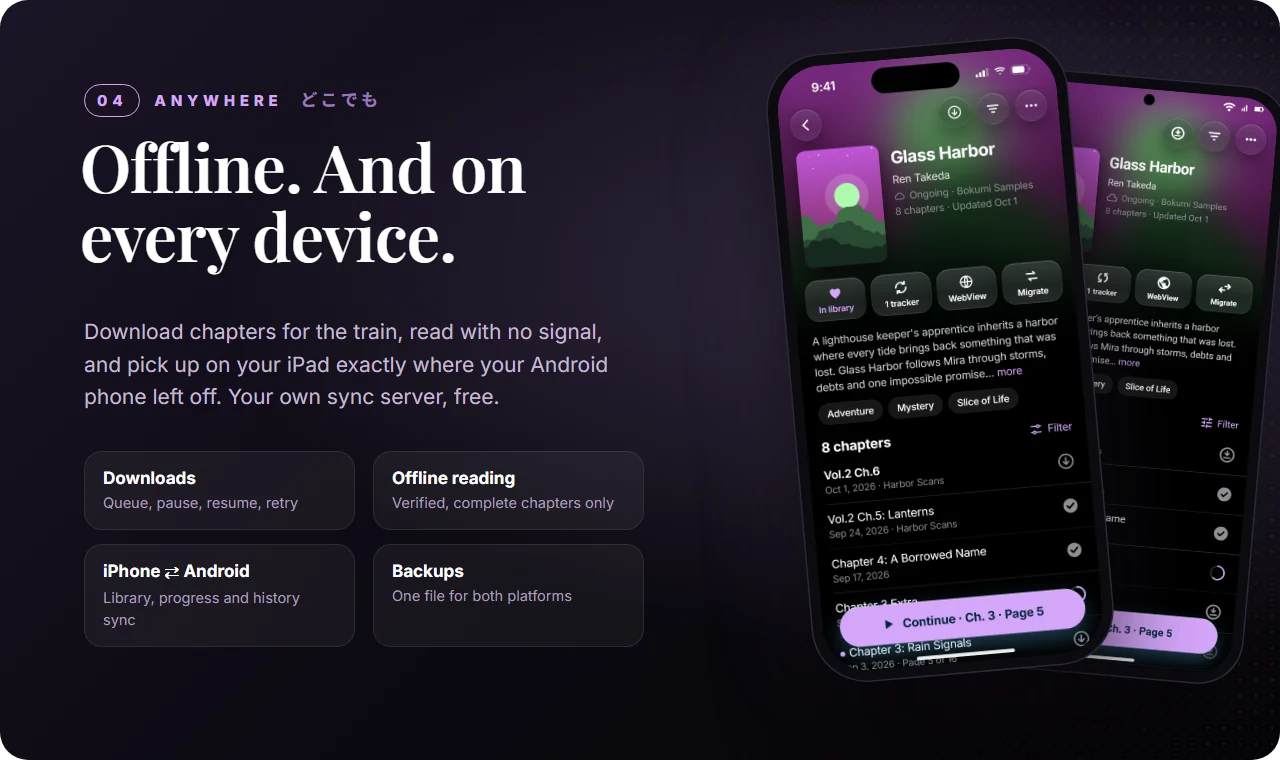
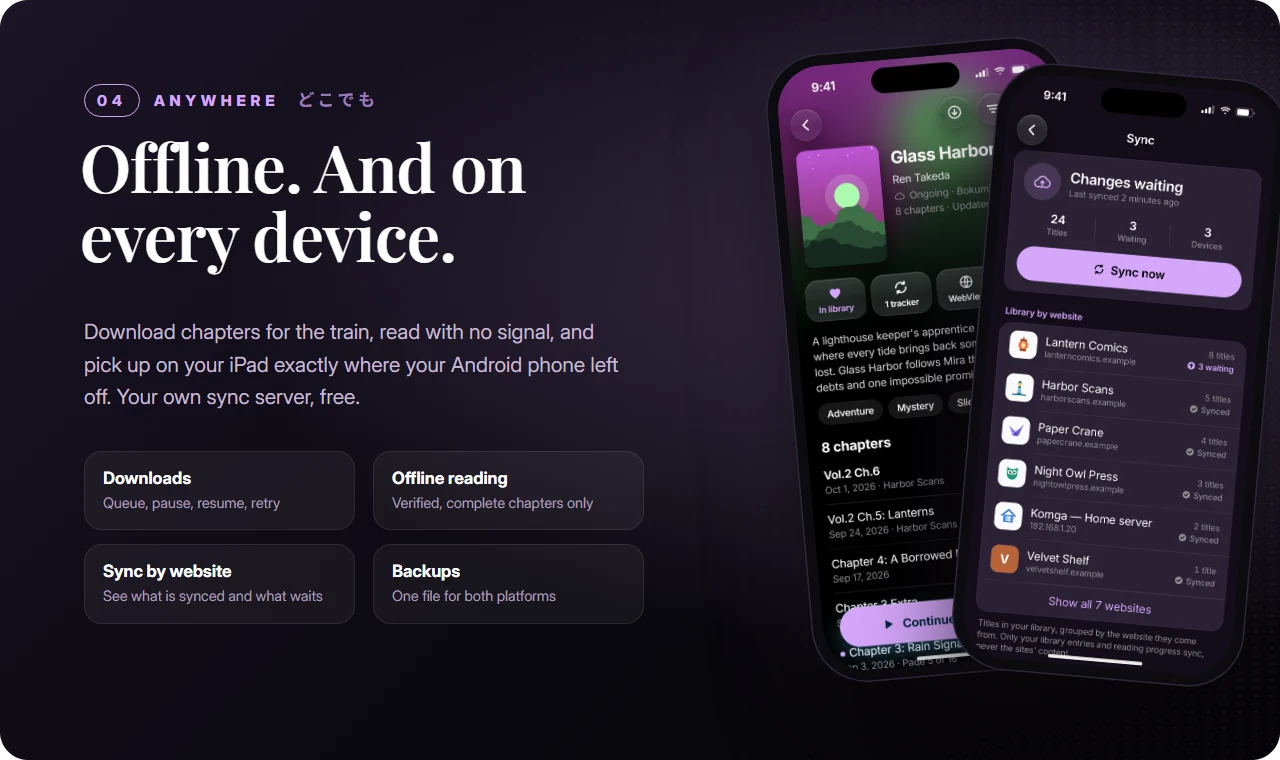
Showcase refresh: themes, sync by website and websites inside Bokumi
- New chapter 06: animated palette carousel (the app cross-fades through six palettes).
- Scrolling feature ribbon under the device showcase.
- Sources: iPhone reads websites inside Bokumi; the Browse menu shows Add website.
- Anywhere: the new Sync screen with the library grouped by website.
- Every card and the showcase now have transparent rounded corners (no white corners in dark mode).
- README: palettes, websites and sync copy; iPhone section no longer mentions a Suwayomi server.
- Notices: fonts used in the artwork.

diff --git a/README.md b/README.md
@@ -18,6 +18,10 @@
 
 <p align="center"><i>One library on every device, with each chapter right where you left it.</i></p>
 
+<p align="center">
+  <img src=".github/readme/marquee.svg" width="100%" alt="Right-to-left manga · webtoon strip · Mihon and Tachiyomi extensions · offline downloads · iPhone and Android sync · ten palettes · trackers · websites inside Bokumi · no ads · no tracking · free">
+</p>
+
 <br>
 
 <img src=".github/readme/ch1-library.webp" width="100%" alt="Chapter 01 · The Library. Your shelf, beautifully kept.">
@@ -28,15 +32,19 @@
 
 <br><br>
 
-<img src=".github/readme/ch3-sources.webp" width="100%" alt="Chapter 03 · Sources. Bring the Mihon and Tachiyomi extensions you already use.">
+<img src=".github/readme/ch3-sources.webp" width="100%" alt="Chapter 03 · Sources. Bring the Mihon and Tachiyomi extensions you already use, or read any website inside Bokumi.">
 
 <br><br>
 
-<img src=".github/readme/ch4-anywhere.webp" width="100%" alt="Chapter 04 · Anywhere. Offline downloads and sync between your devices.">
+<img src=".github/readme/ch4-anywhere.webp" width="100%" alt="Chapter 04 · Anywhere. Offline downloads, and sync between your devices with your library grouped by website.">
 
 <br><br>
 
 <img src=".github/readme/ch5-track.webp" width="100%" alt="Chapter 05 · Tracking. AniList, MyAnimeList, MangaUpdates, Kitsu, Shikimori and Bangumi.">
+
+<br><br>
+
+<img src=".github/readme/ch6-themes.webp" width="100%" alt="Chapter 06 · Make it yours. Ten palettes that color every screen, with an intensity slider and pure black for OLED.">
 
 <br>
 
@@ -46,10 +54,11 @@
 |:--|:--|
 | 📖 **右 → 左 by default** | Manga read right-to-left, comics left-to-right, manhwa as one seamless webtoon strip. Bokumi remembers the mode for every series. |
 | 🧩 **Your extensions** | Add the Mihon/Tachiyomi repositories you already trust and pick what to install. Nothing installs on its own. |
+| 🌐 **Websites inside Bokumi** | Add any site you read and open it in Bokumi. On a series or chapter, tap **Read in Bokumi** to get the library, progress and reader. |
 | 🚃 **Offline for the commute** | Download chapters ahead and read with no signal. Only complete, verified chapters show as downloaded. |
-| 🔁 **Pick up anywhere** | Phone, tablet, iPhone or Android: your library, progress and history follow you with optional sync. |
+| 🔁 **Pick up anywhere** | Phone, tablet, iPhone or Android: your library, progress and history follow you with optional sync, and you can see exactly what is synced for each website. |
 | 📦 **Bring your library** | Import a Mihon/Tachiyomi backup and keep your progress, categories and tracking. |
-| 🌙 **Easy on the eyes** | Pure black by default, Bokumi lavender plus nine more palettes, and Liquid Glass on iOS 26. |
+| 🌙 **Easy on the eyes** | Ten palettes that color the whole app, from a subtle tint to vivid. Pure black for OLED, and Liquid Glass on iOS 26. |
 
 ## ✦ Get Bokumi
 
@@ -61,13 +70,13 @@
 
 ### iPhone & iPad
 
-Coming to TestFlight. On iPhone and iPad, Mihon/Tachiyomi extensions run through a [Suwayomi](https://github.com/Suwayomi/Suwayomi-Server) server of your own, because iOS can't run Android extensions directly.
+Coming to TestFlight. Mihon/Tachiyomi APK extensions are Android code, so iPhone and iPad can't run them. Instead, add any website under **Browse → ⋯ → Add website** and read it inside Bokumi, or install Bokumi extensions from a repository you add.
 
 ## ✦ FAQ
 
 <details><summary><b>Is Bokumi free?</b></summary><br>Yes. There are no ads, no subscriptions and no paywalled features.</details>
 
-<details><summary><b>Does Bokumi come with manga?</b></summary><br>No. Bokumi is a reader. You add sources you are allowed to use: extensions from repositories you choose, your own Komga, Kavita or Suwayomi server, or your own CBZ/ZIP/EPUB files.</details>
+<details><summary><b>Does Bokumi come with manga?</b></summary><br>No. Bokumi is a reader. You add sources you are allowed to use: extensions from repositories you choose, websites you add, your own Komga or Kavita server, or your own CBZ/ZIP/EPUB files.</details>
 
 <details><summary><b>Can I move over from Mihon or Tachiyomi?</b></summary><br>Yes. Import your <code>.tachibk</code> backup under More → Backup &amp; Restore. On Android your Mihon extensions run inside Bokumi.</details>
 

diff --git a/THIRD-PARTY-NOTICES.md b/THIRD-PARTY-NOTICES.md
@@ -37,6 +37,9 @@ https://www.mozilla.org/MPL/2.0/
 ## Artwork in the screenshots
 The library covers in the app screenshots are public-domain or openly licensed works from Wikimedia Commons: Katsushika Hokusai (Hokusai Manga), Rakuten Kitazawa (Tagosaku to Mokube no Tokyo Kenbutsu), and vintage US comic-book covers whose copyright was not renewed. *Pepper & Carrot* (book three cover) is by David Revoy, [CC BY 4.0](https://creativecommons.org/licenses/by/4.0/). Per-cover sources: https://github.com/devCaspian-hash/Bokumi-App/blob/main/COVER-CREDITS.md
 
+## Fonts in this page's artwork
+The images in `.github/readme/` use subsets of **Inter** (Copyright The Inter Project Authors), **Playfair Display** (Copyright The Playfair Project Authors) and **Noto Sans JP** (Copyright Google LLC), all under the [SIL Open Font License 1.1](https://openfontlicense.org).
+
 ---
 
 The full text of each license is available at the links above and in the source distributions of each project.
